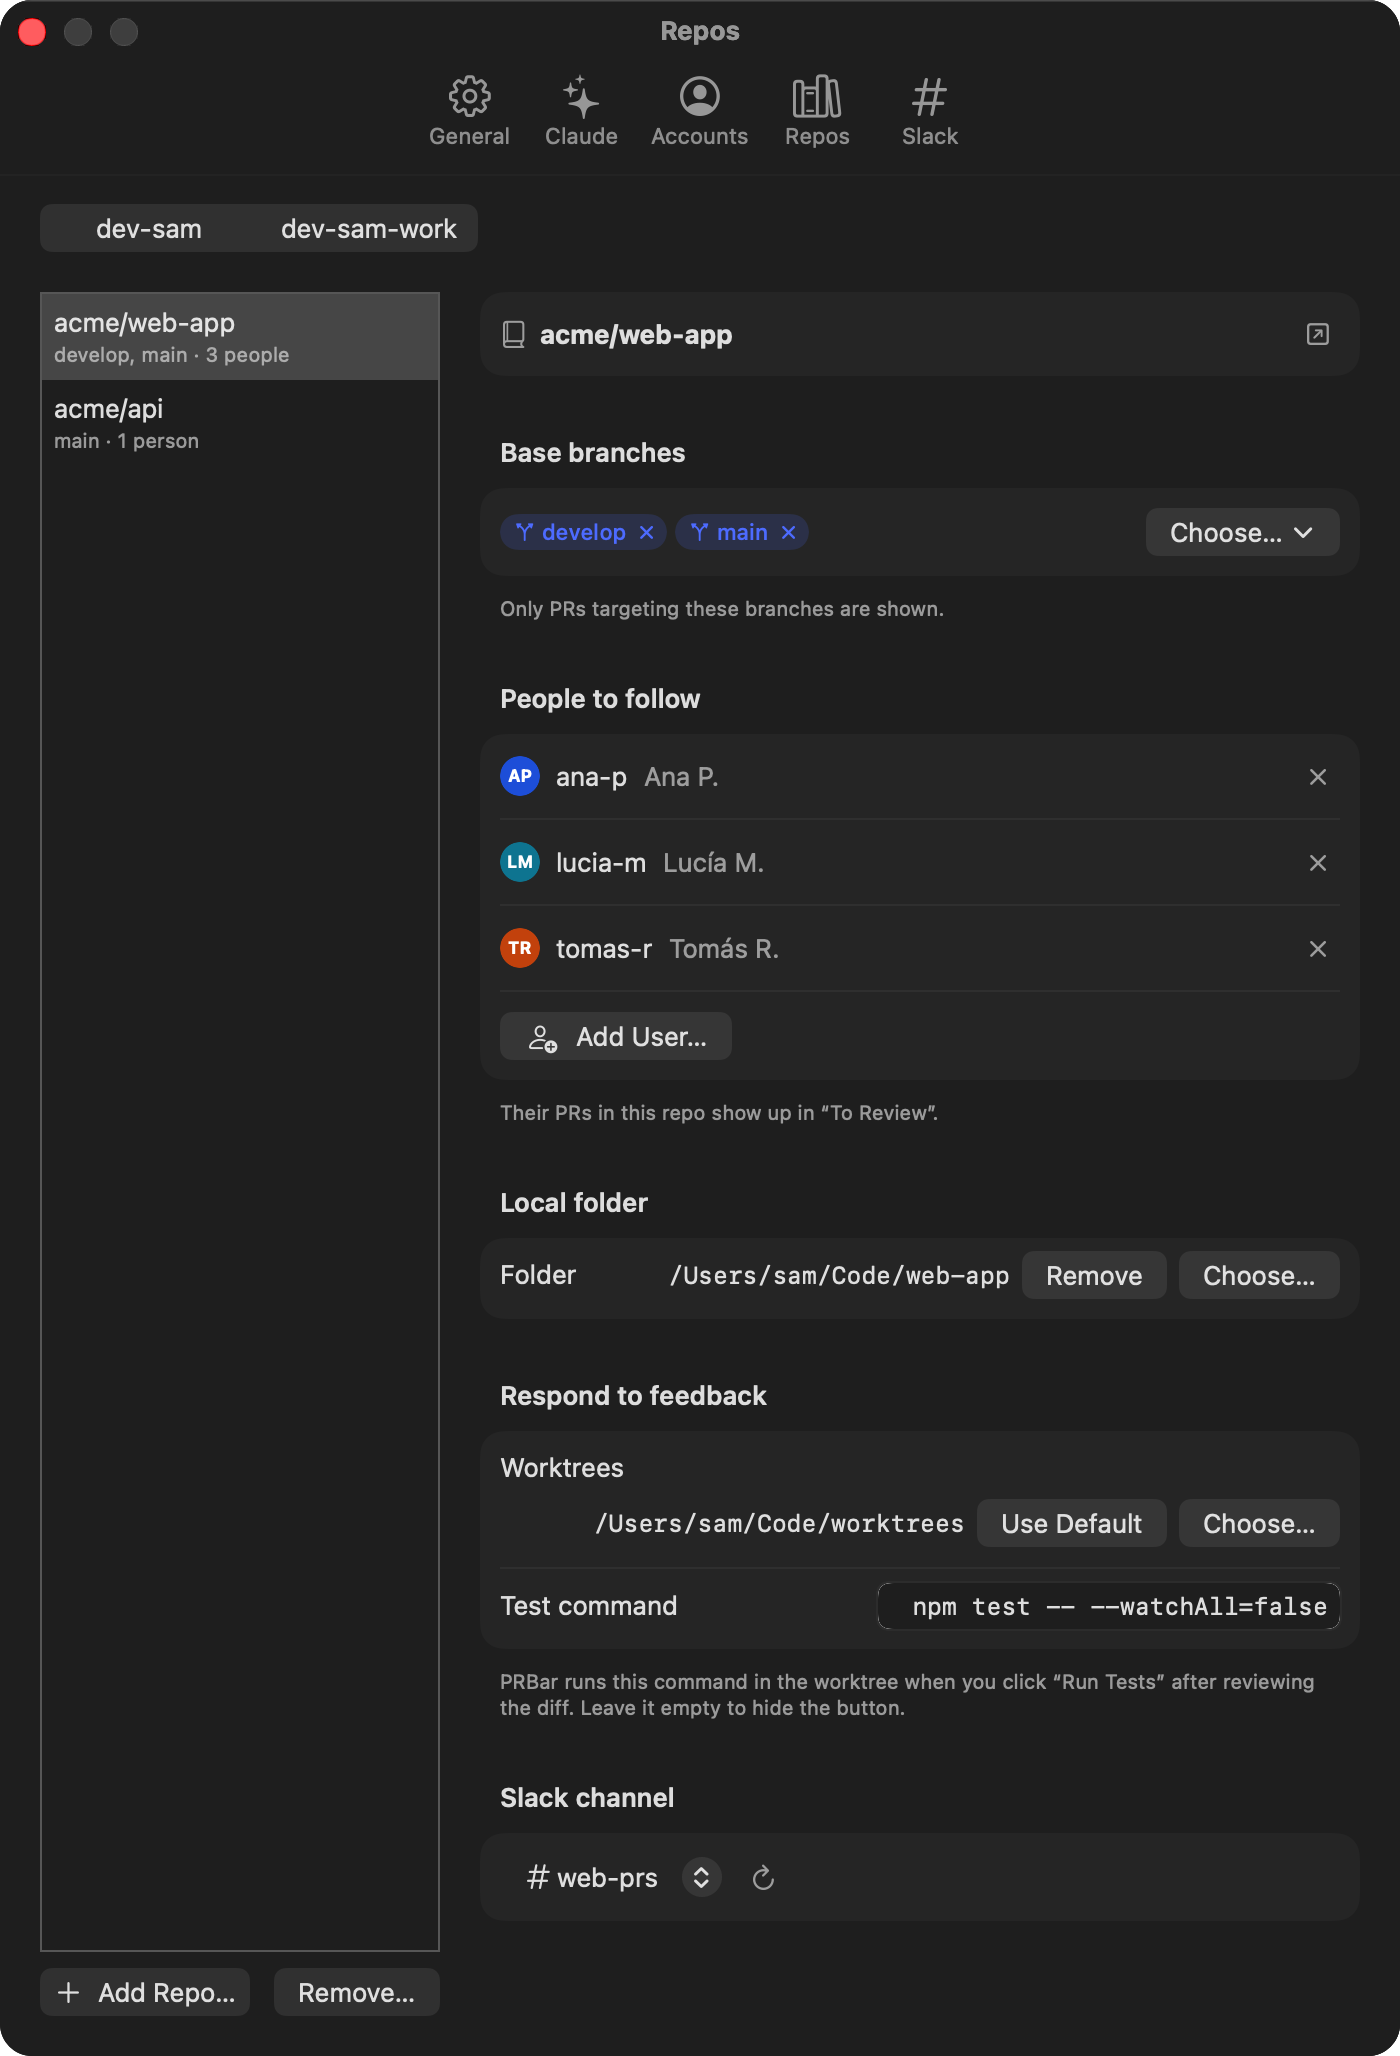
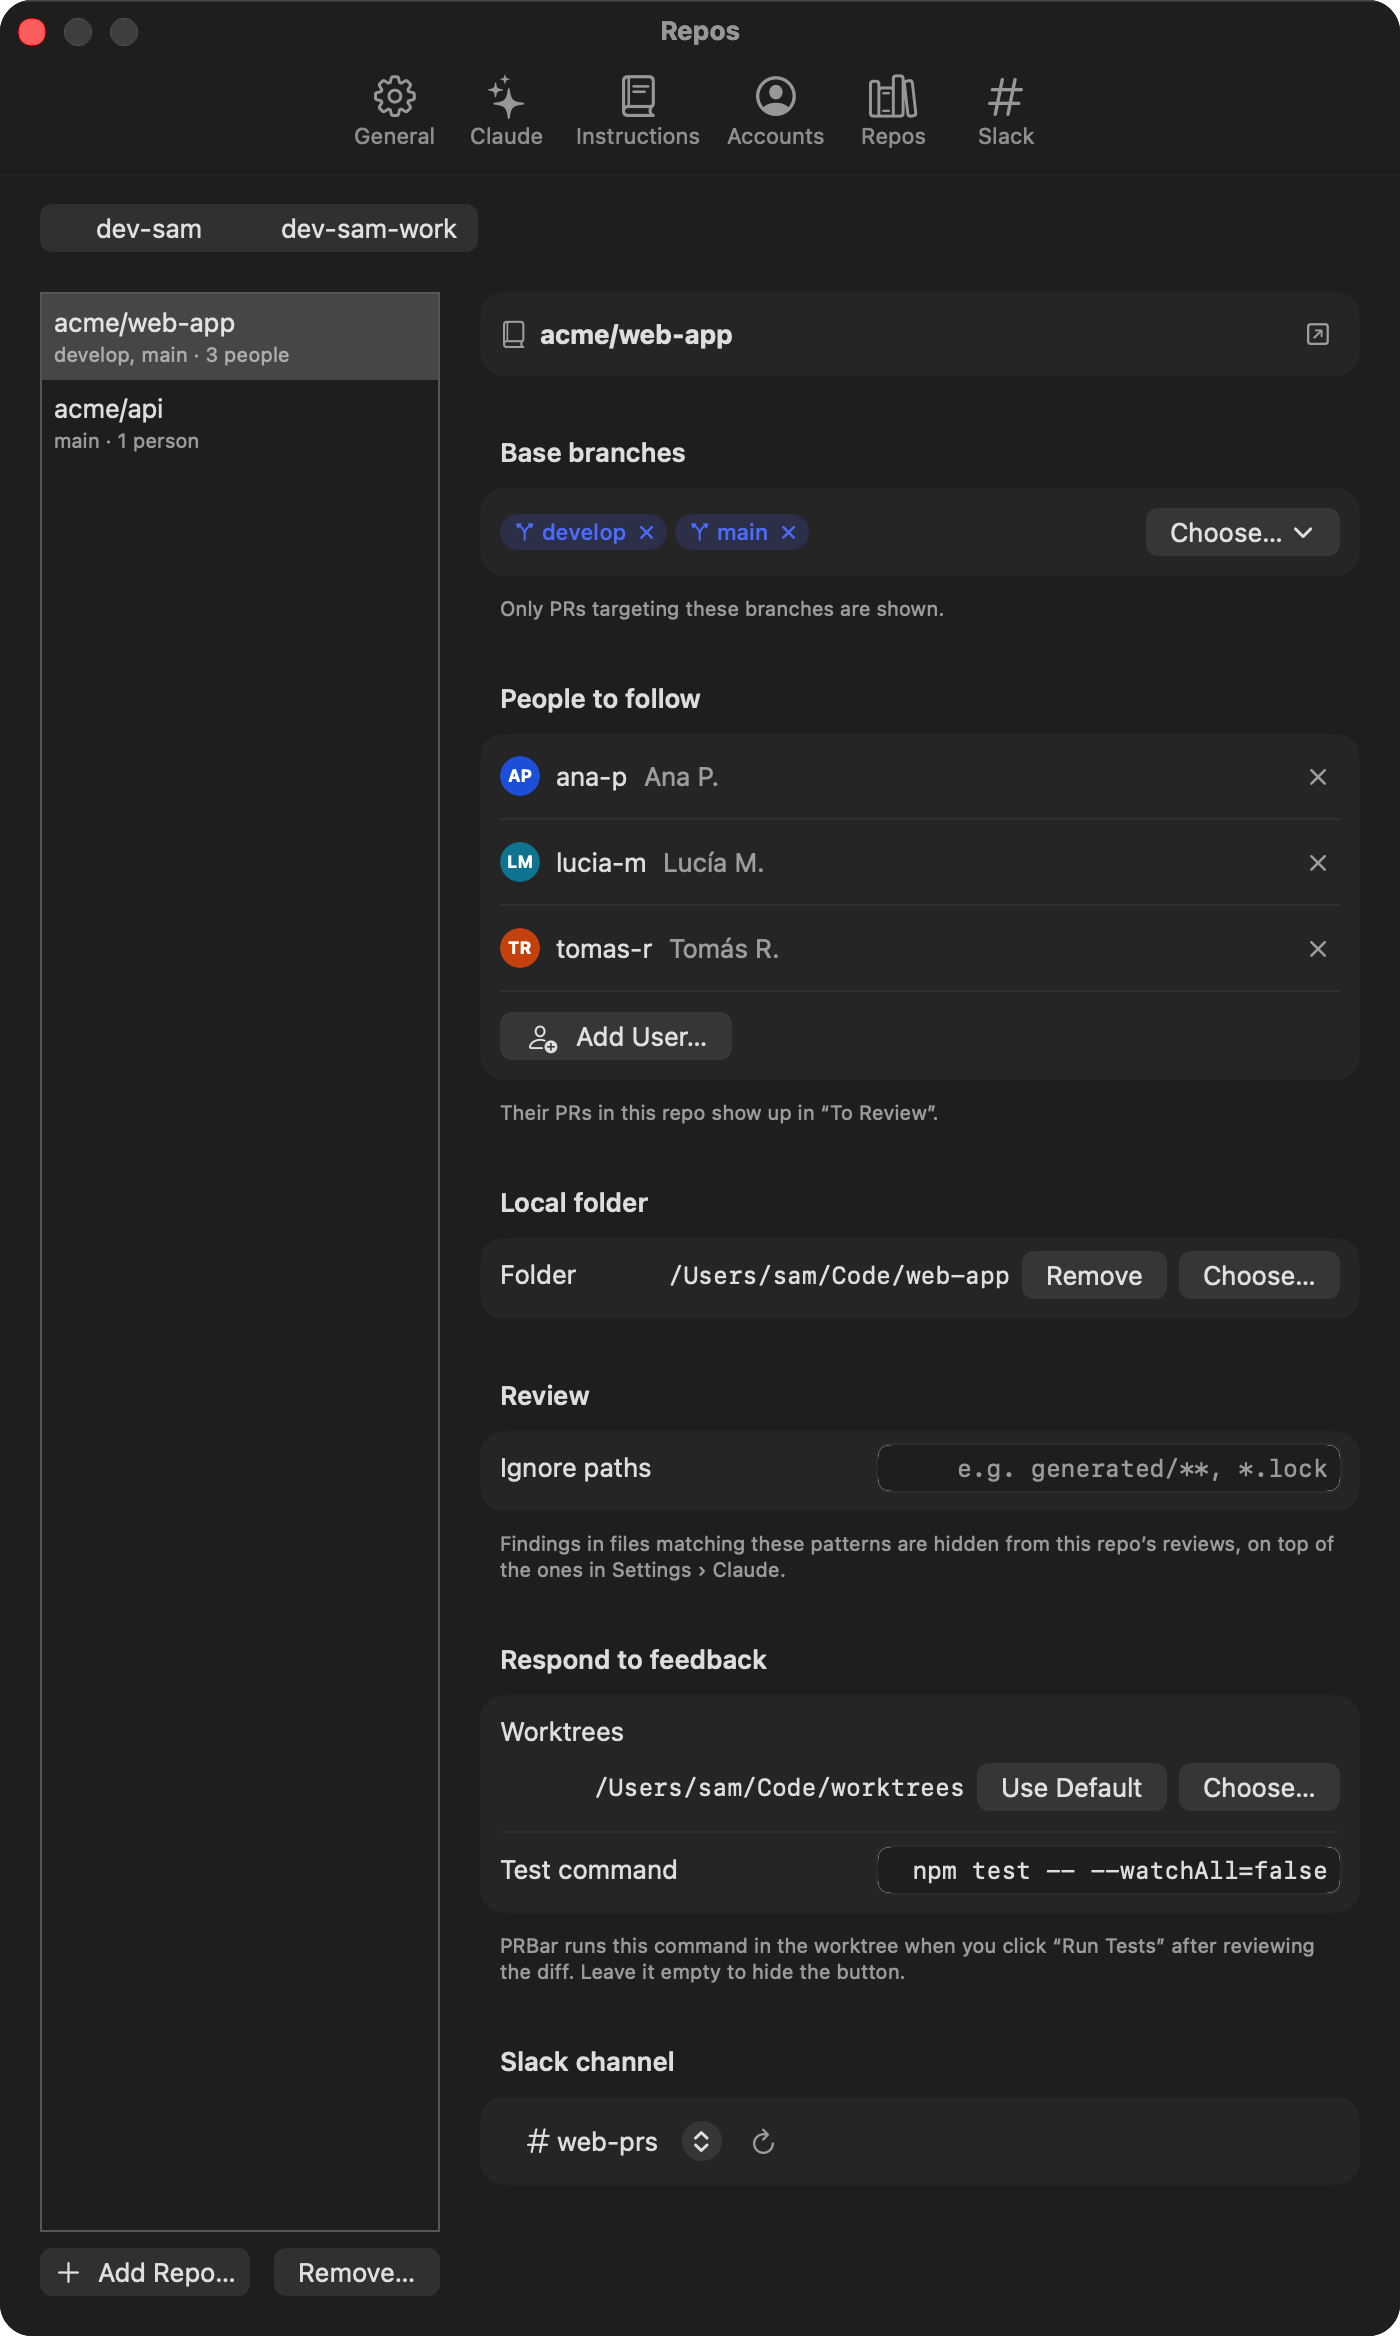
docs: snapshots of the Instructions tab, the rule card and suggestions

diff --git a/Sources/PRBar/Snapshots/SnapshotFixtures.swift b/Sources/PRBar/Snapshots/SnapshotFixtures.swift
@@ -356,6 +356,58 @@ struct SnapshotFixtures {
         return session
     }
 
+    // MARK: Instructions
+
+    static let styleRuleID = UUID(uuidString: "0B1C2D3E-4F50-4617-8293-A4B5C6D7E8F9")!
+
+    /// Four rules (global and per repo, one off) and an instructions chat that added one.
+    var instructions: InstructionsFile {
+        let rules = [
+            Rule(id: Self.styleRuleID, scope: .global, appliesTo: [.review],
+                 text: "Don’t comment on code style or formatting: the linter handles it.", source: .settingsChat,
+                 createdAt: date(minutes: -30)),
+            Rule(id: UUID(uuidString: "1C2D3E4F-5061-4728-93A4-B5C6D7E8F90A")!, scope: .global, appliesTo: [.review, .respond],
+                 text: "Keep GitHub comments short and friendly; suggest code when it helps.", source: .manual,
+                 createdAt: date(days: -30)),
+            Rule(id: UUID(uuidString: "2D3E4F50-6172-4839-A4B5-C6D7E8F90A1B")!, scope: .repo("acme/web-app"), appliesTo: [.respond],
+                 text: "Usamos React Query: no agregues fetch directo.", source: .prChat, createdAt: date(days: -3)),
+            Rule(id: UUID(uuidString: "3E4F5061-7283-494A-B5C6-D7E8F90A1B2C")!, scope: .repo("acme/api"), appliesTo: [.review],
+                 text: "Errors go through AppError; flag raw throws in handlers.", source: .manual, createdAt: date(days: -8),
+                 enabled: false),
+        ]
+        var chat = InstructionsChat()
+        chat.claudeSessionID = UUID(uuidString: "4F506172-8394-4A5B-C6D7-E8F90A1B2C3D")
+        chat.messages = [
+            ChatMessage(role: .user, text: "No comentes estilo, eso lo resuelve el linter", createdAt: date(minutes: -31)),
+            ChatMessage(role: .assistant,
+                        text: "Listo: agregué una regla global para Review. Si querés que también valga para los fixes, decime.",
+                        createdAt: date(minutes: -30), changes: [.ruleAdded(id: Self.styleRuleID.uuidString)],
+                        restore: ChatRestorePoint(rules: Array(rules.dropFirst()), rulesAfter: rules)),
+        ]
+        return InstructionsFile(rules: rules, chat: chat)
+    }
+
+    /// Docs findings discarded in 3 PRs of acme/api: Settings › Instructions and the posted review suggest a rule.
+    var discards: [DiscardEvent] {
+        [("PR_api_301", -2), ("PR_api_305", -6), ("PR_api_309", -11)].map { pr, days in
+            DiscardEvent(repo: "acme/api", prID: pr, category: .docs, title: "Document the new parameter", date: date(days: days))
+        }
+    }
+
+    /// `reviewChat` plus a request to remember something and Claude's rule proposal, pending.
+    var reviewChatWithRule: ChatSession {
+        var session = reviewChat
+        session.messages += [
+            ChatMessage(role: .user, text: "De ahora en más, en api no marques los TODO", createdAt: date(minutes: -2)),
+            ChatMessage(role: .assistant,
+                        text: "Puedo recordarlo como regla para las reviews de acme/api. Revisala y guardala si te sirve.",
+                        createdAt: date(minutes: -1),
+                        proposals: [RuleProposal(scope: .repo("acme/api"), appliesTo: [.review],
+                                                 text: "No marques los comentarios TODO como findings.")]),
+        ]
+        return session
+    }
+
     // MARK: History
 
     /// ~6 records, the published review of api#317 the newest (it's the one selected).

diff --git a/Sources/PRBar/Snapshots/SnapshotMode.swift b/Sources/PRBar/Snapshots/SnapshotMode.swift
@@ -104,6 +104,8 @@ private final class SnapshotSession {
         try JSONCoding.encoder.encode(fixtures.config).write(to: configURL)
         let historyDir = dir.appendingPathComponent("history", isDirectory: true)
         let respondHistory = RespondHistory(historyDir: historyDir)
+        try JSONCoding.encoder.encode(fixtures.instructions).write(to: dir.appendingPathComponent("instructions.json"))
+        try DiscardStatsStore(fileURL: dir.appendingPathComponent("discard-stats.json")).record(fixtures.discards, now: fixtures.date())
         let services = AppModelServices(
             configStore: ConfigStore(fileURL: configURL),
             stateStore: SnapshotStore(url: stateURL),
@@ -210,6 +212,16 @@ private final class SnapshotSession {
             ReviewWindow(model: model, draft: chatDraft, chat: reviewChat, published: nil, close: {},
                          initialState: .init(showsChat: true))
         }
+        var ruleDraft = fixtures.loginRedirectDraft
+        // Its own id: `reviewChat(for:)` keeps one coordinator per draft id.
+        ruleDraft.id = UUID()
+        ruleDraft.chat = fixtures.reviewChatWithRule
+        ruleDraft.edits = fixtures.reviewChatEdits
+        let ruleChat = model.reviewChat(for: ruleDraft)
+        try await window("review-chat-rule", title: title, size: NSSize(width: 1180, height: 980)) {
+            ReviewWindow(model: model, draft: ruleDraft, chat: ruleChat, published: nil, close: {},
+                         initialState: .init(showsChat: true))
+        }
         let published = PublishedReview(record: fixtures.publishedLoginRedirect)
         let publishedDraft = fixtures.loginRedirectDraft
         try await window("review-published", title: title, size: ReviewWindow.size) {
@@ -274,6 +286,7 @@ private final class SnapshotSession {
         let sizes: [SettingsWindow.Tab: NSSize] = [
             .general: NSSize(width: 700, height: 880),
             .claude: NSSize(width: 700, height: 2100),
+            .instructions: NSSize(width: 700, height: 1140),
             .repos: NSSize(width: 700, height: 1080),
             .slack: NSSize(width: 700, height: 1180),
         ]

diff --git a/Sources/PRBar/Settings/RuleViews.swift b/Sources/PRBar/Settings/RuleViews.swift
@@ -44,7 +44,9 @@ struct RuleSuggestionCard: View {
             } icon: {
                 Image(systemName: "lightbulb.fill").foregroundStyle(Theme.orange)
             }
-            TextField("Rule", text: $text, axis: .vertical)
+            TextField("Rule", text: $text, prompt: Text("Rule"), axis: .vertical)
+                .labelsHidden()
+                .multilineTextAlignment(.leading)
                 .textFieldStyle(.roundedBorder)
                 .lineLimit(1...3)
             HStack(spacing: 8) {

diff --git a/docs/screenshots/README.md b/docs/screenshots/README.md
@@ -23,13 +23,14 @@ Every screen comes in `-light` and `-dark`, at 2x:
 | `popover` | The popover: To Review (one idle, one "Reviewing…"), Updated Since My Review (ready, 4 comments), My PRs with Feedback (Changes requested, Respond), Other collapsed |
 | `popover-empty` | The "All Caught Up" state |
 | `review-window` | The Review window: Claude's summary, 3 kept findings (one expanded for editing), 2 discarded with reasons, a general comment, comments posted in Spanish |
-| `review-published` | The Review window after posting |
+| `review-published` | The Review window after posting, with a rule suggestion from the findings you usually discard |
 | `review-chat` | The Review window with the chat open: a question that narrowed #2 and a finding Claude added (#6) |
+| `review-chat-rule` | The Review chat after “from now on…”: Claude’s rule proposal as a card, editable, with Save and Dismiss |
 | `respond-choose` | Respond: choosing what to do with 3 comments (fix, reply, fix + reply) |
 | `respond-ready-to-push` | Respond: 2 commits, the diff, the `package.json` warning, tests passed, Push and Reply |
 | `respond-chat` | Respond, ready to push, with the chat open: a reply drafted for a reviewer and a change to the fixes’ code |
 | `history` | The History window with 6 reviews and responses, one selected |
-| `settings-general`, `settings-claude`, `settings-accounts`, `settings-repos`, `settings-slack` | Each Settings tab, configured |
+| `settings-general`, `settings-claude`, `settings-instructions`, `settings-accounts`, `settings-repos`, `settings-slack` | Each Settings tab, configured |
 | `notification` | **An illustration** of the "Review Ready" notification, not a capture of the real macOS banner |
 
 Notes on fidelity (the windows are drawn offscreen and never shown):
